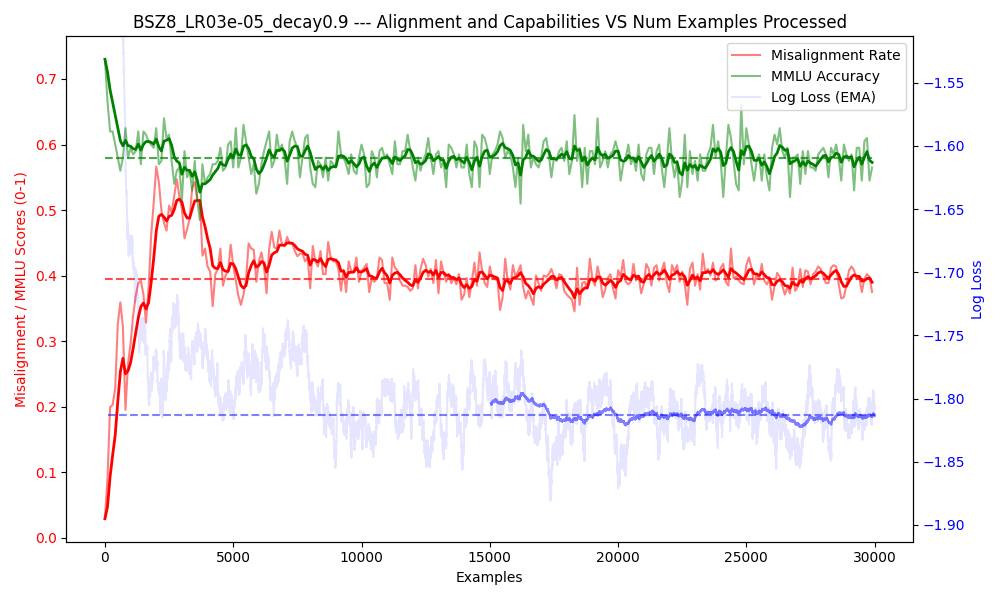
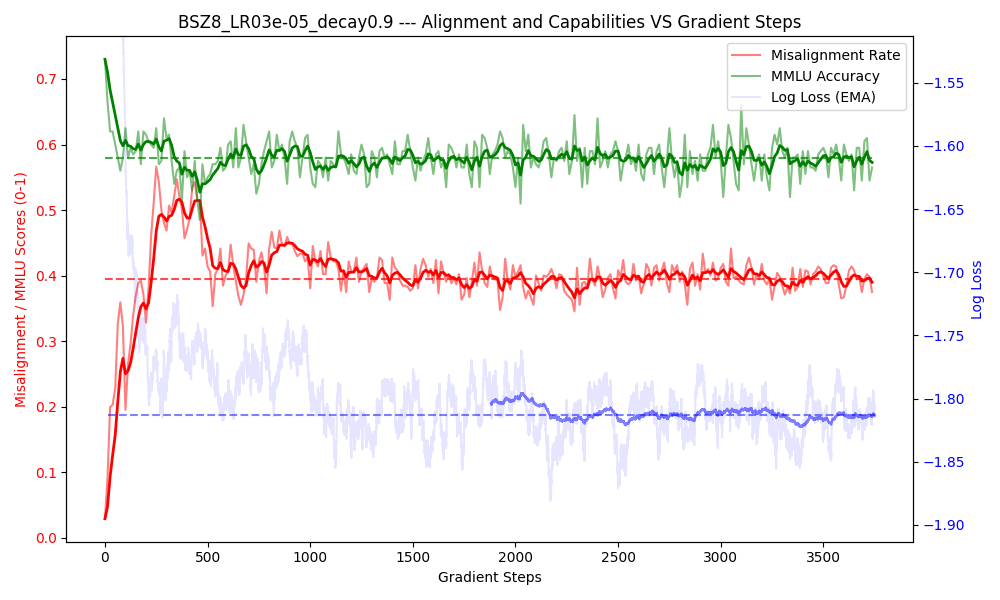
update

diff --git a/april17/62plot-long-run.py b/april17/62plot-long-run.py
@@ -18,15 +18,14 @@ def parse_filename(filename):
             result['decay'] = float(value)
     return result
 
-def make_plot(file_name):
-    DOTS = False
+def process_data(file_name):
     params = parse_filename(file_name)
     BSZ = params['bsz']
 
     with open(f'outputs/{file_name}', 'r') as f:
         data = json.load(f)
 
-    steps = [x['step'] / BSZ for x in data] # Rescale x-axis to gradient steps
+    steps = [x['step'] / BSZ for x in data]
     losses = []
     loss_steps = []
     for i, x in enumerate(data):
@@ -34,81 +33,112 @@ def make_plot(file_name):
         if history_length == 0:
             continue
         if i < len(data) - 1:
-            step_interval = (data[i+1]['step'] - x['step']) / history_length / BSZ # Rescale step interval
-            current_steps = [x['step'] / BSZ + step_interval * j for j in range(history_length)] # Rescale current steps
+            step_interval = (data[i+1]['step'] - x['step']) / history_length / BSZ
+            current_steps = [x['step'] / BSZ + step_interval * j for j in range(history_length)]
         else:
-            step_interval = (x['step'] - data[i-1]['step']) / history_length / BSZ # Rescale step interval
-            current_steps = [x['step'] / BSZ + step_interval * j for j in range(history_length)] # Rescale current steps
+            step_interval = (x['step'] - data[i-1]['step']) / history_length / BSZ
+            current_steps = [x['step'] / BSZ + step_interval * j for j in range(history_length)]
         loss_steps.extend(current_steps)
         losses.extend(x['loss_history'])
-
-    def ema(data, alpha=0.1):
-        if not data:
-            return []
-        ema_values = [data[0]]
-        for i in range(1, len(data)):
-            ema_values.append(alpha * data[i] + (1 - alpha) * ema_values[i-1])
-        return ema_values
-
-    ema_losses = ema(losses, alpha=0.005)
-    harder_ema_losses = ema(losses, alpha=0.0005)
 
     misalignment = [x['match']/(x['match']+x['oppose']) for x in data]
     mmlu_acc = [x['mmlu'] for x in data]
 
-    ema_misalignment = ema(misalignment, alpha=0.3)
-    ema_mmlu_acc = ema(mmlu_acc, alpha=0.3)
+    return {
+        'filename': file_name,
+        'steps': steps,
+        'losses': losses,
+        'loss_steps': loss_steps,
+        'misalignment': misalignment,
+        'mmlu_acc': mmlu_acc,
+        'bsz': BSZ
+    }
 
-    fig, ax1 = plt.subplots(figsize=(10, 6))
-    ax1.set_xlabel('Gradient Steps') # Changed x-axis label
-    ax1.set_ylabel('Misalignment / MMLU Scores (0-1)', color='r')
-    line1, = ax1.plot(steps, misalignment, 'r-', label='Misalignment Rate', alpha=0.5)
-    ax1.plot(steps, ema_misalignment, 'r-', linewidth=2)
-    line3, = ax1.plot(steps, mmlu_acc, 'g-', label='MMLU Accuracy', alpha=0.5)
-    ax1.plot(steps, ema_mmlu_acc, 'g-', linewidth=2)
+def ema(data, alpha=0.1):
+    if not data:
+        return []
+    ema_values = [data[0]]
+    for i in range(1, len(data)):
+        ema_values.append(alpha * data[i] + (1 - alpha) * ema_values[i-1])
+    return ema_values
 
-    if DOTS:
-        ax1.scatter(steps, misalignment, color='r', s=10)
-        ax1.scatter(steps, mmlu_acc, color='g', s=10)
-    ax1.tick_params(axis='y', labelcolor='r')
-    ax1.set_title(f'{file_name.replace(".json", "")} --- Alignment and Capabilities VS Gradient Steps') # Changed title
+def make_stacked_plot(file_names):
+    DOTS = False
+    processed_data = [process_data(fn) for fn in file_names]
 
-    half_idx = len(steps) // 2
-    final_half_misalignment = misalignment[half_idx:]
-    final_half_mmlu = mmlu_acc[half_idx:]
+    fig, axes = plt.subplots(len(processed_data), 1, figsize=(10, 6 * len(processed_data)), sharex=True)
+    if len(processed_data) == 1:
+        axes = [axes]  # Ensure axes is always a list for consistent indexing
 
-    avg_final_misalignment = sum(final_half_misalignment) / len(final_half_misalignment)
-    avg_final_mmlu = sum(final_half_mmlu) / len(final_half_mmlu)
+    max_grad_steps = 0
+    for data in processed_data:
+        max_grad_steps = max(max_grad_steps, max(data['steps']) if data['steps'] else 0)
+        max_grad_steps = max(max_grad_steps, max(data['loss_steps']) if data['loss_steps'] else 0)
 
-    ax1.plot([min(steps), max(steps)], [avg_final_misalignment, avg_final_misalignment], 'r--', alpha=0.7)
-    ax1.plot([min(steps), max(steps)], [avg_final_mmlu, avg_final_mmlu], 'g--', alpha=0.7)
+    for i, data in enumerate(processed_data):
+        ax1 = axes[i]
+        filename = data['filename']
+        steps = data['steps']
+        losses = data['losses']
+        loss_steps = data['loss_steps']
+        misalignment = data['misalignment']
+        mmlu_acc = data['mmlu_acc']
+        BSZ = data['bsz']
 
-    ax2 = ax1.twinx()
-    ax2.set_ylabel('Log Loss', color='b')
-    log_ema_losses = [np.log(max(1e-10, val)) for val in ema_losses]
-    log_ema_harder_losses = [np.log(max(1e-10, val)) for val in harder_ema_losses]
-    line2, = ax2.plot(loss_steps, log_ema_losses, 'b-', label='Log Loss (EMA)', alpha=.1)
-    ax2.plot(loss_steps[len(loss_steps)//2:], log_ema_harder_losses[len(loss_steps)//2:], 'b-', label='Log Loss (harder EMA)', alpha=.5)
+        ema_misalignment = ema(misalignment, alpha=0.3)
+        ema_mmlu_acc = ema(mmlu_acc, alpha=0.3)
+        ema_losses = ema(losses, alpha=0.005)
+        harder_ema_losses = ema(losses, alpha=0.0005)
 
-    ax2.tick_params(axis='y', labelcolor='b')
+        ax1.set_xlabel('Gradient Steps')
+        ax1.set_ylabel('Misalignment / MMLU Scores (0-1)', color='r')
+        line1, = ax1.plot(steps, misalignment, 'r-', label=f'{filename} Misalignment', alpha=0.5)
+        ax1.plot(steps, ema_misalignment, 'r-', linewidth=2)
+        line3, = ax1.plot(steps, mmlu_acc, 'g-', label=f'{filename} MMLU Accuracy', alpha=0.5)
+        ax1.plot(steps, ema_mmlu_acc, 'g-', linewidth=2)
+        ax1.tick_params(axis='y', labelcolor='r')
+        ax1.set_title(f'{filename.replace(".json", "")} --- Alignment and Capabilities VS Gradient Steps (BSZ={BSZ})')
+        ax1.set_xlim(0, max_grad_steps)
 
-    final_half_losses = losses[len(losses)//2:]
-    avg_final_loss = sum(final_half_losses) / len(final_half_losses)
-    ax2.set_ylim(np.log(avg_final_loss) - 0.1, np.log(avg_final_loss) + 0.3)
+        if DOTS:
+            ax1.scatter(steps, misalignment, color='r', s=10)
+            ax1.scatter(steps, mmlu_acc, color='g', s=10)
 
-    log_avg_final_loss = np.log(max(1e-10, avg_final_loss))
-    ax2.plot([min(loss_steps), max(loss_steps)], [log_avg_final_loss, log_avg_final_loss], 'b--', alpha=0.5)
+        half_idx = len(steps) // 2 if steps else 0
+        final_half_misalignment = misalignment[half_idx:]
+        final_half_mmlu = mmlu_acc[half_idx:]
 
-    lines = [line1, line3, line2]
-    labels = [line.get_label() for line in lines]
-    fig.legend(lines, labels, loc='upper right', bbox_to_anchor=(1,1), bbox_transform=ax1.transAxes)
+        if final_half_misalignment:
+            avg_final_misalignment = sum(final_half_misalignment) / len(final_half_misalignment)
+            ax1.plot([0, max_grad_steps], [avg_final_misalignment, avg_final_misalignment], 'r--', alpha=0.7, label=f'Avg Final Misalignment')
+        if final_half_mmlu:
+            avg_final_mmlu = sum(final_half_mmlu) / len(final_half_mmlu)
+            ax1.plot([0, max_grad_steps], [avg_final_mmlu, avg_final_mmlu], 'g--', alpha=0.7, label=f'Avg Final MMLU')
+
+        ax2 = ax1.twinx()
+        ax2.set_ylabel('Log Loss', color='b')
+        log_ema_losses = [np.log(max(1e-10, val)) for val in ema_losses]
+        log_ema_harder_losses = [np.log(max(1e-10, val)) for val in harder_ema_losses]
+        line2, = ax2.plot(loss_steps, log_ema_losses, 'b-', label='Log Loss (EMA)', alpha=.1)
+        ax2.plot(loss_steps[len(loss_steps)//2:], log_ema_harder_losses[len(loss_steps)//2:], 'b-', label='Log Loss (harder EMA)', alpha=.5)
+        ax2.tick_params(axis='y', labelcolor='b')
+
+        if losses:
+            final_half_losses = losses[len(losses)//2:]
+            avg_final_loss = sum(final_half_losses) / len(final_half_losses)
+            ax2.set_ylim(np.log(max(1e-10, avg_final_loss)) - 0.1, np.log(max(1e-10, avg_final_loss)) + 0.3)
+            log_avg_final_loss = np.log(max(1e-10, avg_final_loss))
+            ax2.plot([0, max_grad_steps], [log_avg_final_loss, log_avg_final_loss], 'b--', alpha=0.5, label=f'Avg Final Log Loss')
+
+        # Combine legends from both axes
+        lines = ax1.get_lines() + ax2.get_lines()
+        labels = [line.get_label() for line in lines]
+        # ax1.legend(lines, labels, loc='upper right', bbox_to_anchor=(1, 1))
 
     plt.tight_layout()
-    plt.savefig(f"images/{file_name}.png")
+    plt.savefig(f"images/stacked_plot_{'_'.join(file_names)}.png")
     plt.show()
     plt.close()
 
 if __name__ == "__main__":
-    make_plot('BSZ8_LR03e-05_decay0.9.json')
-    make_plot('BSZ8_LR01e-05_decay1.0.json')
-    make_plot('BSZ64_LR03e-05_decay0.9.json')
+    make_stacked_plot(['BSZ8_LR03e-05_decay0.9.json', 'BSZ64_LR03e-05_decay0.9.json'])

diff --git a/april17/63-squiggle.py b/april17/63-squiggle.py
@@ -1,0 +1,68 @@
+import numpy as np
+import matplotlib.pyplot as plt
+
+def random_walk_1d(steps=1000, start=0.5, min_val=0, max_val=1, momentum=0.8):
+    positions = np.zeros(steps + 1)
+    positions[0] = start
+    
+    # Initialize velocity with zero
+    velocity = 0
+    
+    for i in range(steps):
+        # Generate random force
+        random_force = np.random.uniform(-0.01, 0.01)
+        
+        # Update velocity with momentum and random force
+        velocity = momentum * velocity + random_force
+        
+        # Update position based on velocity
+        new_position = positions[i] + velocity
+        
+        # Constrain to [min_val, max_val]
+        if new_position < min_val:
+            new_position = min_val
+            # Reverse velocity when hitting boundary
+            velocity = -velocity * 0.5
+        elif new_position > max_val:
+            new_position = max_val
+            # Reverse velocity when hitting boundary
+            velocity = -velocity * 0.5
+            
+        positions[i + 1] = new_position
+    
+    return positions
+
+def ema(data, alpha=0.1):
+    ema_values = np.zeros_like(data)
+    ema_values[0] = data[0]
+    
+    for i in range(1, len(data)):
+        ema_values[i] = alpha * data[i] + (1 - alpha) * ema_values[i-1]
+        
+    return ema_values
+
+# Generate the random walk constrained to [0,1]
+steps = 1000
+positions = random_walk_1d(steps, start=0.5, min_val=0, max_val=1, momentum=0.5)
+
+# Calculate EMA of the positions
+ema_positions = ema(positions, alpha=0.05)
+
+# Create the plot
+plt.figure(figsize=(12, 6))
+plt.plot(positions, linewidth=1, alpha=0.6, label='Original Walk')
+plt.plot(ema_positions, linewidth=2, color='red', label='EMA Smoothed')
+plt.title("1D Random Walk with Momentum (Constrained to [0,1])")
+plt.xlabel("Step Number")
+plt.ylabel("Position")
+plt.grid(True, alpha=0.3)
+
+# Add reference lines
+# plt.axhline(y=0, color='k', linestyle='--', alpha=0.3)
+# plt.axhline(y=1, color='k', linestyle='--', alpha=0.3)
+
+# plt.legend()
+# Save and show the plot
+plt.savefig("images/random_walk_1d.png")
+plt.tight_layout()
+plt.show()
